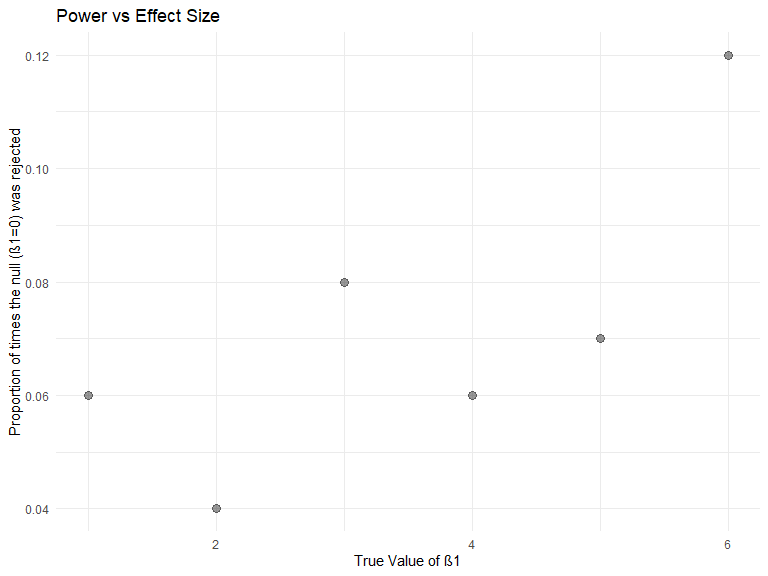
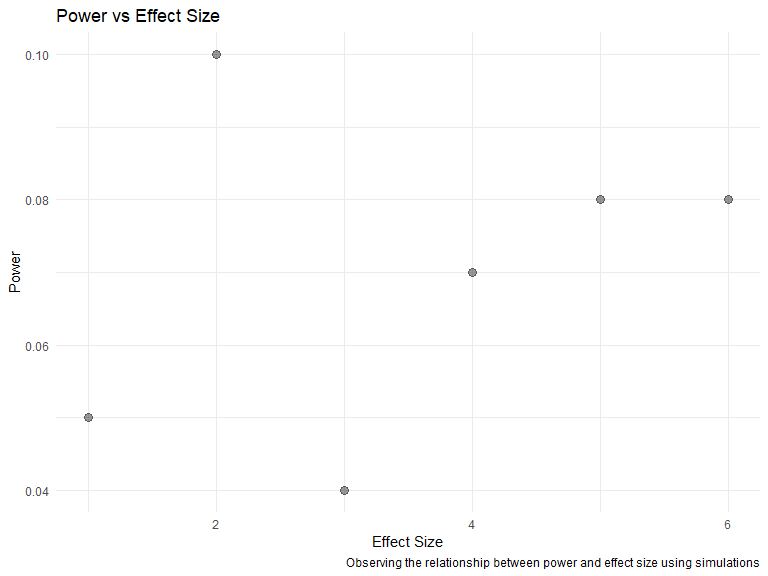
About to try this with 10000...

diff --git a/p8105_hw5_jt3175.md b/p8105_hw5_jt3175.md
@@ -97,8 +97,11 @@ files = tibble(csv_name = list.files("./data/")) %>%
 
 ## Problem 3
 
+Set β1=0. Generate 10000 datasets from the model. For each dataset, save
+β^1 and the p-value arising from a test of H:β1=0 using α=0.05.
+
 ``` r
-set.seed(4)
+set.seed(5)
 
 sim_regression = function(beta1) {
   
@@ -115,8 +118,12 @@ sim_regression = function(beta1) {
   ls_fit
 }
 
+# Generate 10k datasets, saving the estimate and the p value
+
 b1_0 = rerun(100, sim_regression(0)) %>% 
   bind_rows()
+
+# Generate 10k datasets, saving the estimate and p value when beta1 = 1 to 6
 
 sim_results = 
   tibble(beta1_values = c(1, 2, 3, 4, 5, 6)) %>% 
@@ -146,8 +153,9 @@ ggplot(prop_rej, aes(x = beta1_values, y = prop)) +
   geom_point(size = 3, alpha = .4) +
   labs(
     title = "Power vs Effect Size",
-    x = "True Value of β1",
-    y = "Proportion of times the null (β1=0) was rejected"
+    x = "Effect Size",
+    y = "Power",
+    caption = "Observing the relationship between power and effect size using simulations"
   )
 ```
 
@@ -186,8 +194,9 @@ plot_b1_vs_truth = ggplot(b1_vs_truth, aes(x = beta1_values, y = avg_b1)) +
   scale_color_manual("Legend", values = c("blue", "grey")) +
   labs(
     title = "Average Slope Estimate vs True Slope Value",
-    x = "True Value of Slope",
-    y = "Average Estimate of Slope"
+    x = "True Slope Value",
+    y = "Average Slope Estimate",
+    caption = "Comparing average slope estimate and true slope value for all p values and for only significant p values"
   )
 
 plot_b1_vs_truth
